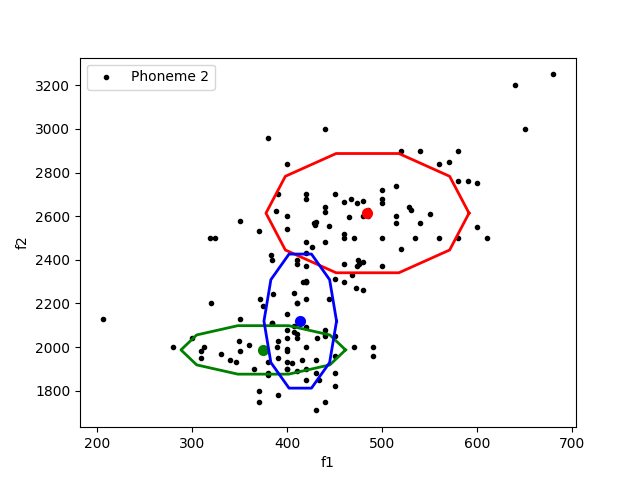
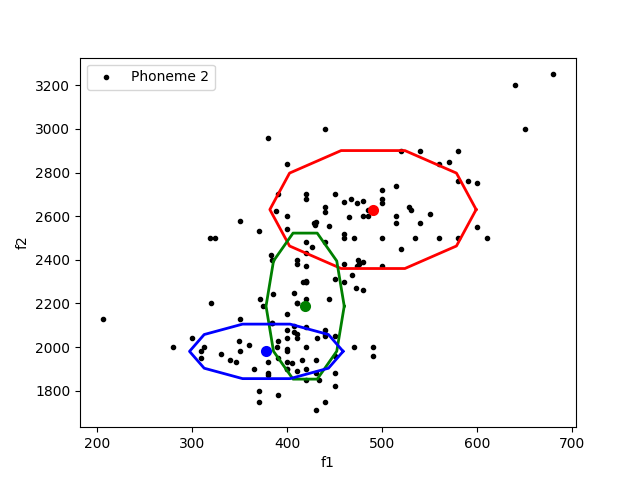
fixed the covariance singularity problem using three different methods

Changed region(s): [[0.2812, 0.3125, 0.75, 0.8125], [0.5625, 0.4062, 0.5938, 0.4688]]

diff --git a/task_3.py b/task_3.py
@@ -32,12 +32,13 @@ X_full = np.zeros((len(f1), 2))
 #########################################
 # Write your code here
 # Store f1 in the first column of X_full, and f2 in the second column of X_full
-
+X_full[0:,0] += f1
+X_full[0:,1] += f2 
 ########################################/
 X_full = X_full.astype(np.float32)
 
 # number of GMM components
-k = 3
+k = 3 # Or 6
 
 #########################################
 # Write your code here
@@ -46,9 +47,9 @@ k = 3
 # The shape of X_phonemes_1_2 will be two-dimensional. Each row will represent a sample of the dataset, and each column will represent a feature (e.g. f1 or f2)
 # Fill X_phonemes_1_2 with the samples of X_full that belong to the chosen phonemes
 # To fill X_phonemes_1_2, you can leverage the phoneme_id array, that contains the ID of each sample of X_full
-
-# X_phonemes_1_2 = ...
-
+phoneme_1_indices = np.where(phoneme_id==1)[0]
+phoneme_2_indices = np.where(phoneme_id==2)[0]
+X_phonemes_1_2 =X_full[np.append(phoneme_1_indices,phoneme_2_indices)]
 ########################################/
 
 # Plot array containing the chosen phonemes
@@ -69,7 +70,26 @@ plt.savefig(plot_filename)
 # Get predictions on samples from both phonemes 1 and 2, from a GMM with k components, pretrained on phoneme 1
 # Get predictions on samples from both phonemes 1 and 2, from a GMM with k components, pretrained on phoneme 2
 # Compare these predictions for each sample of the dataset, and calculate the accuracy, and store it in a scalar variable named "accuracy"
+model_npy_file = 'data/GMM_params_phoneme_0{ph}_k_0{k}.npy'
+X =X_phonemes_1_2.copy()
+# first model's predections
+model_ph1 =np.ndarray.tolist(np.load(model_npy_file.format(ph=1, k=k), allow_pickle=True))
+Z_model_ph1 = np.sum ( get_predictions(model_ph1['mu'], model_ph1['s'], model_ph1['p'], X),axis=1)
 
+# second model's predections
+model_ph2 =np.ndarray.tolist(np.load(model_npy_file.format(ph=2, k=k), allow_pickle=True))
+Z_model_ph2 = np.sum(get_predictions(model_ph2['mu'], model_ph2['s'], model_ph2['p'], X),axis=1)
+
+preds = Z_model_ph1>Z_model_ph2
+y_truth = np.append(np.ones(phoneme_1_indices.size),np.zeros(phoneme_2_indices.size))
+
+# compute accuracy manually, (I wanted to use sklearn's function accuracy_score but was worried that marker may not have the library installled)
+counter=0
+for i in range(preds.size):
+    if (y_truth[i]==preds[i]):
+        counter+=1
+
+accuracy = counter/preds.size
 ########################################/
 
 print('Accuracy using GMMs with {} components: {:.2f}%'.format(k, accuracy))

diff --git a/task_4.py b/task_4.py
@@ -32,7 +32,8 @@ X_full = np.zeros((len(f1), 2))
 #########################################
 # Write your code here
 # Store f1 in the first column of X_full, and f2 in the second column of X_full
-
+X_full[0:,0] += f1
+X_full[0:,1] += f2 
 ########################################/
 X_full = X_full.astype(np.float32)
 
@@ -47,7 +48,9 @@ k = 3
 # Fill X_phonemes_1_2 with the samples of X_full that belong to the chosen phonemes
 # To fill X_phonemes_1_2, you can leverage the phoneme_id array, that contains the ID of each sample of X_full
 
-# X_phonemes_1_2 = ...
+phoneme_1_indices = np.where(phoneme_id==1)[0]
+phoneme_2_indices = np.where(phoneme_id==2)[0]
+X_phonemes_1_2 =X_full[np.append(phoneme_1_indices,phoneme_2_indices)]
 
 ########################################/
 
@@ -75,7 +78,33 @@ print('f2 range: {}-{} | {} points'.format(min_f2, max_f2, N_f2))
 # Store these prediction in a 2D numpy array named "M", of shape N_f2 x N_f1 (the first dimension is f2 so that we keep f2 in the vertical axis of the plot)
 # M should contain "0.0" in the points that belong to phoneme 1 and "1.0" in the points that belong to phoneme 2
 ########################################/
+grid = []
+f2_values = [*range(min_f2,max_f2)]
+for f1_value in range(min_f1,max_f1):
+    temp = []
+    for f2_value in range(min_f2,max_f2):
+        temp.append([f1_value,f2_value])
+    grid.append(temp)
+grid = np.array(grid)
 
+model_npy_file = 'data/GMM_params_phoneme_0{ph}_k_0{k}.npy'
+model_ph1 =np.ndarray.tolist(np.load(model_npy_file.format(ph=1, k=k), allow_pickle=True))
+model_ph2 =np.ndarray.tolist(np.load(model_npy_file.format(ph=2, k=k), allow_pickle=True))
+ph1_predictions= np.zeros((grid.shape[0],grid.shape[1],k))
+ph2_predictions= np.zeros((grid.shape[0],grid.shape[1],k))
+for i in range(grid.shape[0]):
+    ph1_predictions[i] = get_predictions(model_ph1['mu'], model_ph1['s'], model_ph1['p'], grid[i])
+    ph2_predictions[i] = get_predictions(model_ph2['mu'], model_ph2['s'], model_ph2['p'], grid[i])
+
+
+M= np.zeros((grid.shape[0],grid.shape[1]))
+for i in range(grid.shape[0]):
+    for j in range(grid.shape[1]):
+        if (np.sum(ph1_predictions[i][j])>np.sum(ph2_predictions[i][j])):
+            M[i][j] =1
+        else:
+            M[i][j] = 2
+M=np.transpose(M)
 ################################################
 # Visualize predictions on custom grid
 

diff --git a/task_5.py b/task_5.py
@@ -34,7 +34,9 @@ X_full = np.zeros((len(f1), 3))
 #########################################
 # Write your code here
 # Store f1 in the first column of X_full, f2 in the second column of X_full and f1+f2 in the third column of X_full
-
+X_full[0:,0] += f1
+X_full[0:,1] += f2 
+X_full[0:,2] += f1+f2
 ########################################/
 X_full = X_full.astype(np.float32)
 
@@ -51,8 +53,8 @@ k = 3
 # The shape of X_phoneme will be two-dimensional. Each row will represent a sample of the dataset, and each column will represent a feature (e.g. f1 or f2 or f1+f2)
 # Fill X_phoneme with the samples of X_full that belong to the chosen phoneme
 # To fill X_phoneme, you can leverage the phoneme_id array, that contains the ID of each sample of X_full
-
-# X_phoneme = ...
+phoneme_indices = np.where(phoneme_id==p_id)[0]
+X_phoneme = X_full[phoneme_indices]
 
 ########################################/
 
@@ -127,7 +129,15 @@ for t in range(n_iter):
         #########################################
         # Write your code here
         # Suggest ways of overcoming the singularity
-
+        # First suggestion: let the covaraince matrix be a diagonal matrix with values sigma (all elements along the diagonal have the same value)
+        '''sigma_square = np.sum(term_1.transpose()@term_1)/N #scaler
+        s[i,:,:] = np.sqrt(sigma_square)*np.identity(D)'''
+        # Second suggestion : let the covariance matrix be a diagonal matrix with different sigma values
+        '''sigma_square = np.sum(np.square(term_1),axis=1) # has shape (D,)
+        sigma_diag = np.diag(np.sqrt(sigma_square))
+        s[i,:,:] = sigma_diag'''
+        # Third suggestion: add a smal positive value to the diagonal of the covariance matrix
+        '''s[i,:,:]+= 0.000001*np.identity(D)'''
         ########################################/
         p[i] = np.mean(Z[:,i])
     ax1.clear()

diff --git a/task_2.py b/task_2.py
@@ -51,7 +51,6 @@ p_id = 2
 # The shape of X_phoneme will be two-dimensional. Each row will represent a sample of the dataset, and each column will represent a feature (e.g. f1 or f2)
 # Fill X_phoneme with the samples of X_full that belong to the chosen phoneme
 # To fill X_phoneme, you can leverage the phoneme_id array, that contains the ID of each sample of X_full
-X_phoneme = np.zeros((np.sum(phoneme_id==p_id), 2))
 X_phoneme = X_full[np.where(phoneme_id==p_id)]
 
 ########################################/
